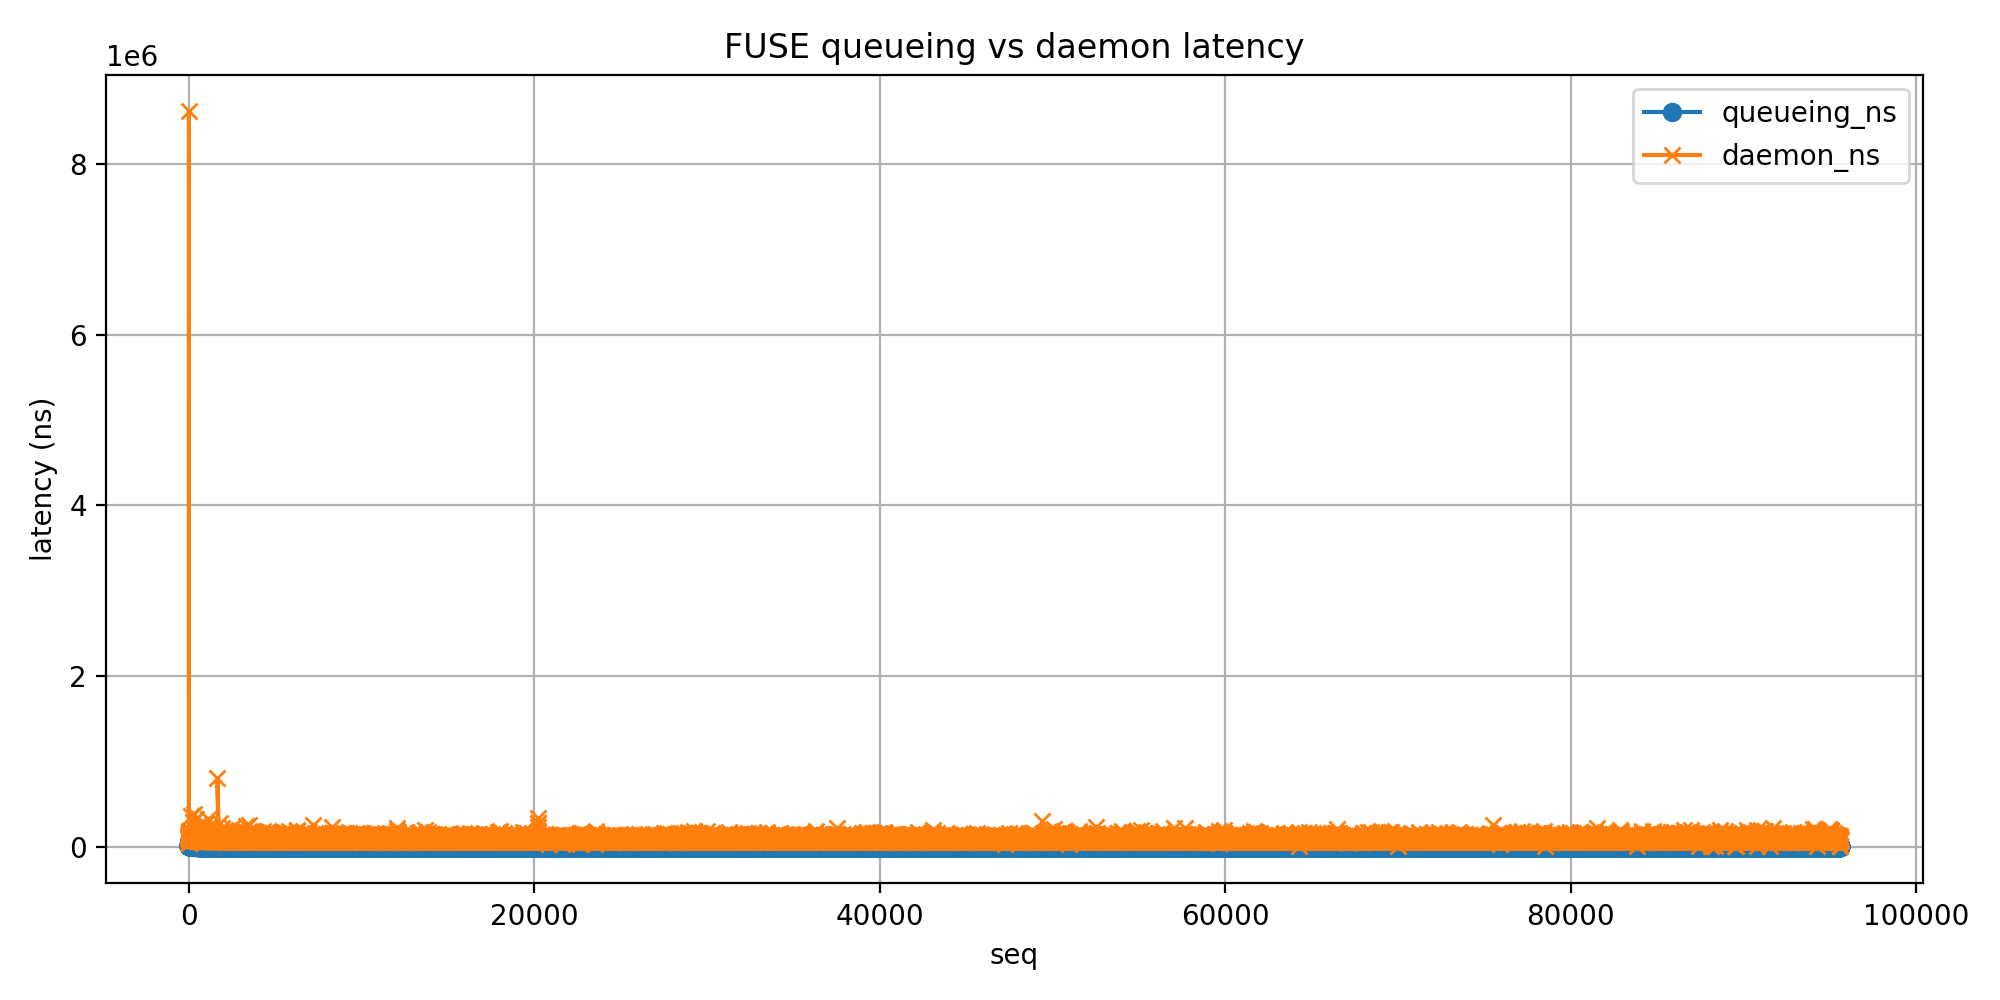
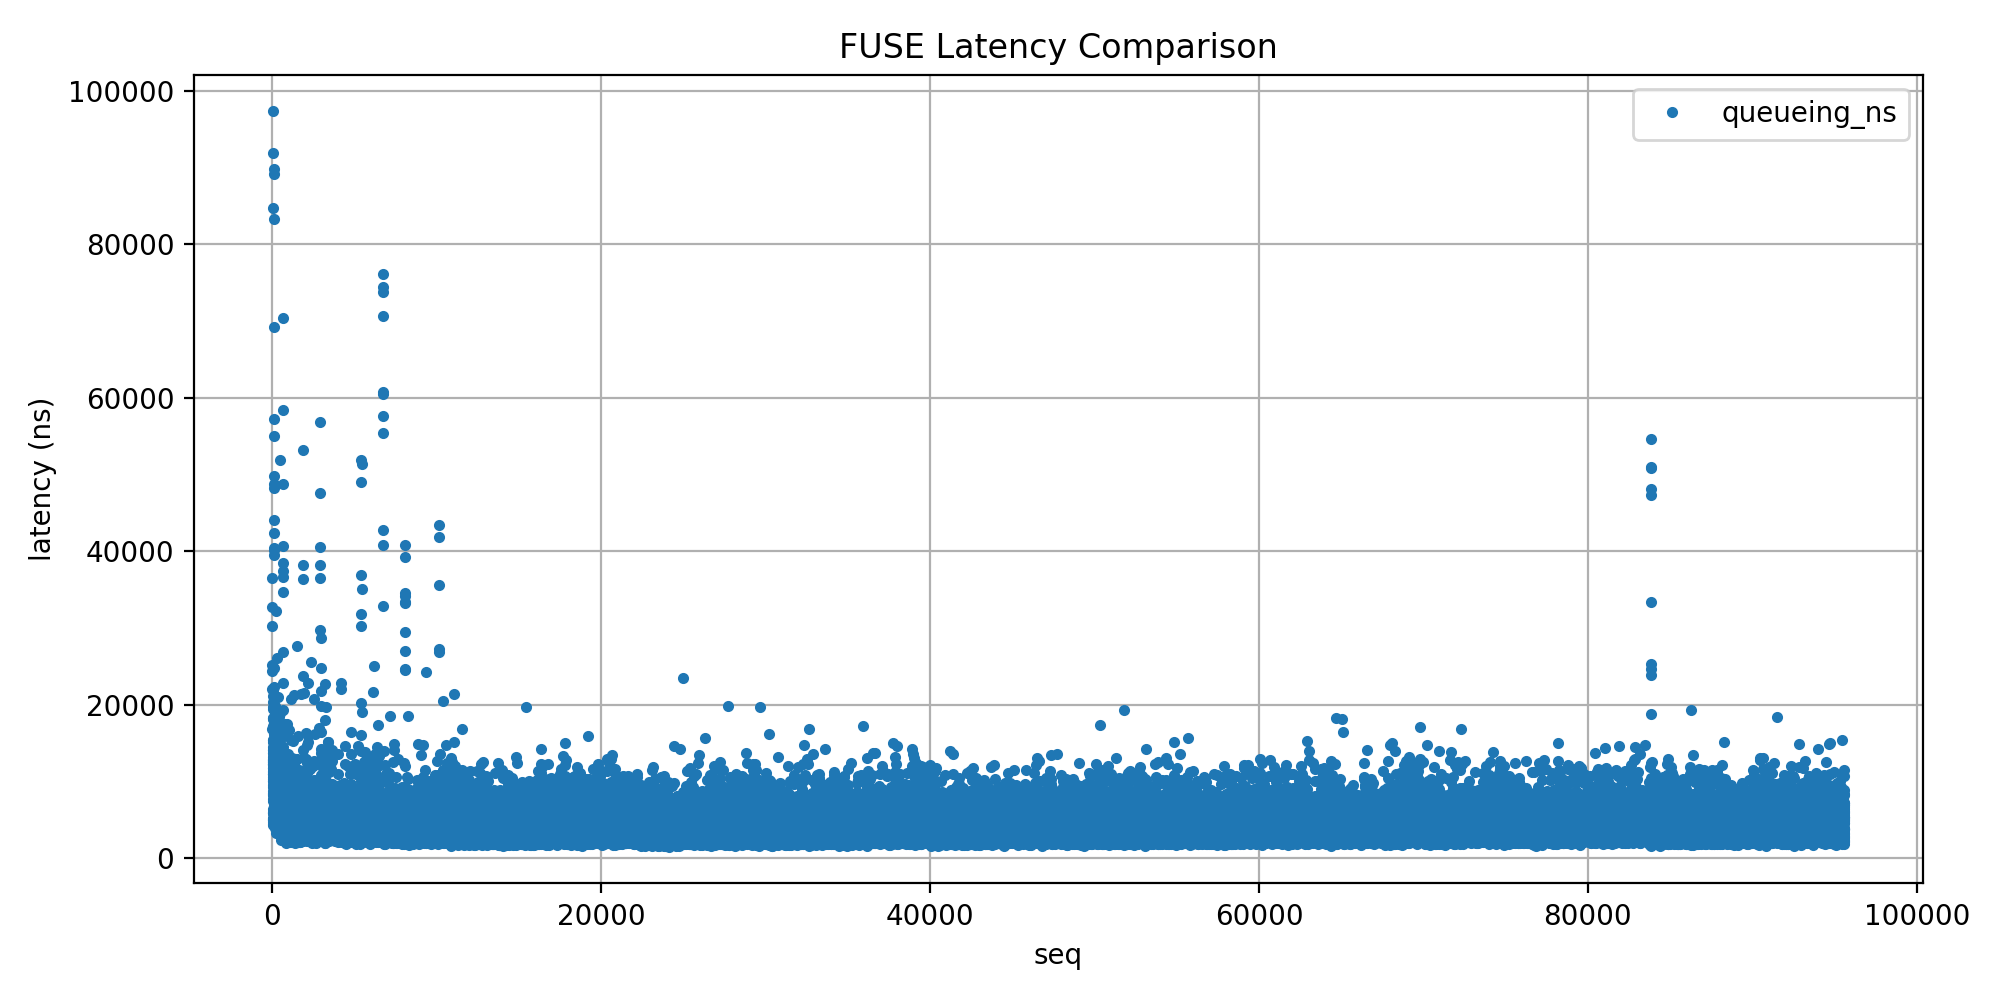
update from windows

diff --git a/fuse_copy_overheads/make_plot.py b/fuse_copy_overheads/make_plot.py
@@ -13,36 +13,66 @@ def main():
         default="latency_vs_seq.png",
         help="output image file name (default: latency_vs_seq.png)"
     )
+    parser.add_argument(
+        "--show",
+        choices=["daemon", "queueing", "both"],
+        default="both",
+        help="Select which latency to show: daemon, queueing, or both"
+    )
+    parser.add_argument(
+        "--ymax",
+        type=float,
+        default=None,
+        help="Set maximum Y-axis value (default: auto-scale)"
+    )
+
     args = parser.parse_args()
 
-    # CSV 읽기
+    # CSV 로드
     df = pd.read_csv(args.csv_path)
 
-    # 필요한 컬럼 있는지 체크
-    for col in ["seq", "queueing_ns", "daemon_ns"]:
+    # 필드 확인
+    required = ["seq", "queueing_ns", "daemon_ns"]
+    for col in required:
         if col not in df.columns:
-            raise ValueError(f"CSV에 '{col}' 컬럼이 없습니다.")
+            raise ValueError(f"CSV missing required column: {col}")
 
     x = df["seq"]
-    q = df["queueing_ns"]
-    d = df["daemon_ns"]
 
     plt.figure(figsize=(10, 5))
-    # 각 행의 값을 선 그래프(또는 포인트)로 표현
-    plt.plot(x, q, label="queueing_ns", marker="o", linestyle="-")
-    plt.plot(x, d, label="daemon_ns", marker="x", linestyle="-")
+
+    if args.show in ("queueing", "both"):
+        plt.plot(
+            x, df["queueing_ns"],
+            label="queueing_ns",
+            marker="o",
+            markersize=3,
+            linestyle="None"   # ← 선 제거
+        )
+
+    if args.show in ("daemon", "both"):
+        plt.plot(
+            x, df["daemon_ns"],
+            label="daemon_ns",
+            marker="x",
+            markersize=3,
+            linestyle="None"   # ← 선 제거
+        )
 
     plt.xlabel("seq")
     plt.ylabel("latency (ns)")
-    plt.title("FUSE queueing vs daemon latency")
-    plt.legend()
-    plt.grid(True)
-    plt.tight_layout()
-    plt.savefig(args.output, dpi=200)
+    plt.title("FUSE Latency Comparison")
 
-    # GUI 없는 환경이면 show()는 생략해도 됨
-    # plt.show()
+    # y축 최대값 지정 여부
+    if args.ymax is not None:
+        plt.ylim(top=args.ymax)
+
+    plt.grid(True)
+    plt.legend()
+    plt.tight_layout()
+
+    plt.savefig(args.output, dpi=200)
+    # plt.show()  # GUI 환경이면 사용 가능
 
 if __name__ == "__main__":
     main()
-
